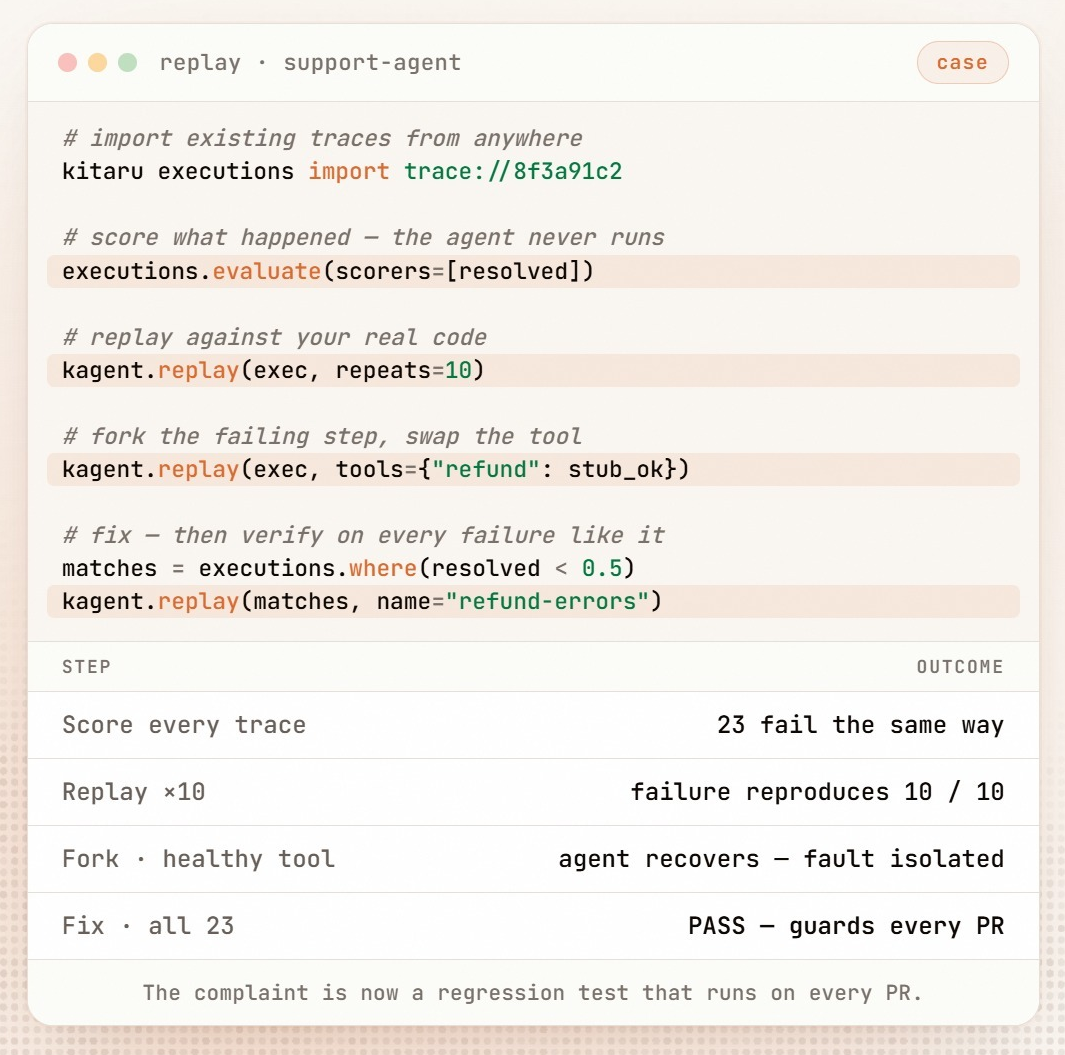
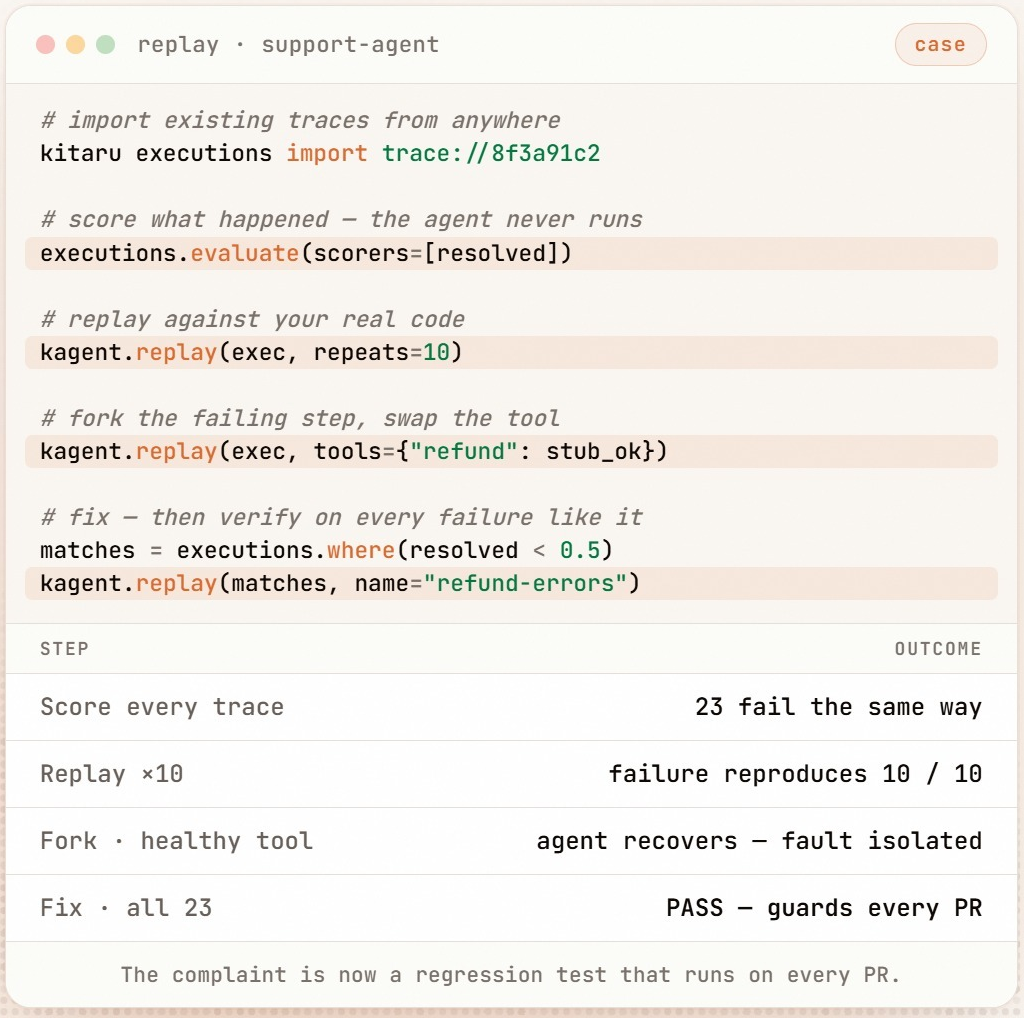
Lead the README with debugging, not tracing
Reviewer feedback: leading with "trace" reads as yet another tracing
tool. Rewrite the headline, opening, and Why Kitaru section around
debugging production agents, and add the no-migration claim as a
first-class bullet: wrap your existing agent or import the runs your
observability stack already captured. "Trace" now refers only to what
arrives from outside; the Kitaru-side noun is the execution. Crop the
hero image flush to the panel.

diff --git a/README.md b/README.md
@@ -4,10 +4,10 @@
   </a>
 </p>
 
-<h3 align="center">Traces you can run, not just read.</h3>
+<h3 align="center">Debug your agents where they failed: in production.</h3>
 
 <p align="center">
-  Kitaru (来る, "to arrive") records every agent run as a full trace — every model call, tool call, and decision — and replays it against your real code. Reproduce the trace exactly. Fork it with one thing changed. Trust the diff. It works underneath whatever framework you already use, self-hosted on your own infrastructure, and it can deploy and run your agents too.
+  Kitaru (来る, "to arrive") is a debugger for production AI agents. Take a run your agent already did — in your stack, on your framework — and re-run it against your real code: reproduce it exactly, fork it at the step that broke with one thing changed, and diff what happens. Your agent doesn't have to run on Kitaru first: wrap the harness you already use, or bring the runs your observability stack already captured. Self-hosted on your own infrastructure — and it can deploy and run your agents too.
 </p>
 
 <p align="center">
@@ -33,26 +33,29 @@
 
 ## 🎯 Why Kitaru?
 
-Most traces are transcripts — you read them. A Kitaru trace re-executes:
-your actual code runs again, with the trace answering for everything the
-original run saw. Kitaru is a debugger with a memory, sitting beside your
-observability stack — it tells you what happened; Kitaru re-runs it. That
-turns production traffic into the eval suite you never had to write: every
-incident is a reproducible test case, and "would the cheaper model have
-held?" is an experiment over real traces instead of a guess. What arrives
-as a complaint leaves as a regression test.
+Observability tells you what your agent did. Kitaru is what lets you do
+something about it — a debugger with a memory. Your actual code runs
+again, with the recording answering for everything the original run saw,
+so a failure reproduces on your desk instead of in a dashboard. Every
+incident becomes a reproducible test case, and "would the cheaper model
+have held?" becomes an experiment over real runs instead of a guess. What
+arrives as a complaint leaves as a regression test.
 
-- **Every trace is a recording.** Each checkpoint output — model call, tool
+- **Every run is a recording.** Each checkpoint output — model call, tool
   call, decision — is written to your object store as a typed, versioned
-  artifact. Step through it, diff it against other runs, trace a bad output
+  artifact. Step through it, diff it against other runs, walk a bad output
   back to the step that produced it.
 - **Replay is re-execution, not re-scoring.** An unchanged replay reproduces
   the original exactly — and that faithful baseline is what lets you fork
   from any checkpoint with one thing changed and trust that the diff is your
   change, not replay noise.
-- **Decide with evidence.** Every trace includes the model traffic — prompt,
-  response, tokens, latency, estimated cost — recorded automatically by the
-  framework adapters, or by `kitaru.llm()` in raw Python.
+- **You don't have to run on Kitaru to use it.** Wrap your existing agent
+  for native recording, or import the runs your observability stack already
+  captured — either way they land as executions you can replay. Kitaru
+  needs your code and a recording, not a migration.
+- **Decide with evidence.** Every recording includes the model traffic —
+  prompt, response, tokens, latency, estimated cost — captured automatically
+  by the framework adapters, or by `kitaru.llm()` in raw Python.
 
 <a id="quick-start"></a>
 
@@ -94,31 +97,31 @@ client.executions.import_traces("support-traces.jsonl", format="otel")
 client.executions.import_traces("langfuse://trace/8f3a91c2", name="ticket-48211")
 ```
 
-Every run is now a trace you can replay:
+Every run is now an execution you can replay:
 
 ```python
-trace = client.executions.latest()
+execution = client.executions.latest()
 
 # Replay — start from the agent's first model call, and your real code
 # runs again against the recorded world. Unchanged, it reproduces the
 # original exactly. That's your baseline.
-client.executions.replay(trace.exec_id, at="support-agent_model_request")
+client.executions.replay(execution.exec_id, at="support-agent_model_request")
 
-# Fork — same trace, one thing changed: patch the recorded tool output.
+# Fork — same execution, one thing changed: patch the recorded tool output.
 # What would the agent have done if the refund had succeeded?
 client.executions.replay(
-    trace.exec_id,
+    execution.exec_id,
     at="refund_payment_tool",
     checkpoint_overrides={
         "refund_payment_tool": {"output": "refund issued: $129.00"},
     },
 )
 
-# Widen — the same call takes a list. Replay last week's traces against
+# Widen — the same call takes a list. Replay last week's runs against
 # the code in your working tree, and the cohort is a regression test.
-traces = client.executions.list(limit=20)
+recent = client.executions.list(limit=20)
 client.executions.replay(
-    [t.exec_id for t in traces],
+    [e.exec_id for e in recent],
     at="support-agent_model_request",
     tag="pr-1234-check",
 )
@@ -163,7 +166,7 @@ framework — Kitaru wraps them, not the other way around.
 
 Everything in the loop is scriptable: each step has a CLI command
 (`kitaru executions list / logs / replay`) and an MCP tool, so Claude Code,
-Codex, or any MCP-capable agent can inspect traces, replay them, and read
+Codex, or any MCP-capable agent can inspect executions, replay them, and read
 back the diff. Hook up the MCP server:
 
 ```bash
